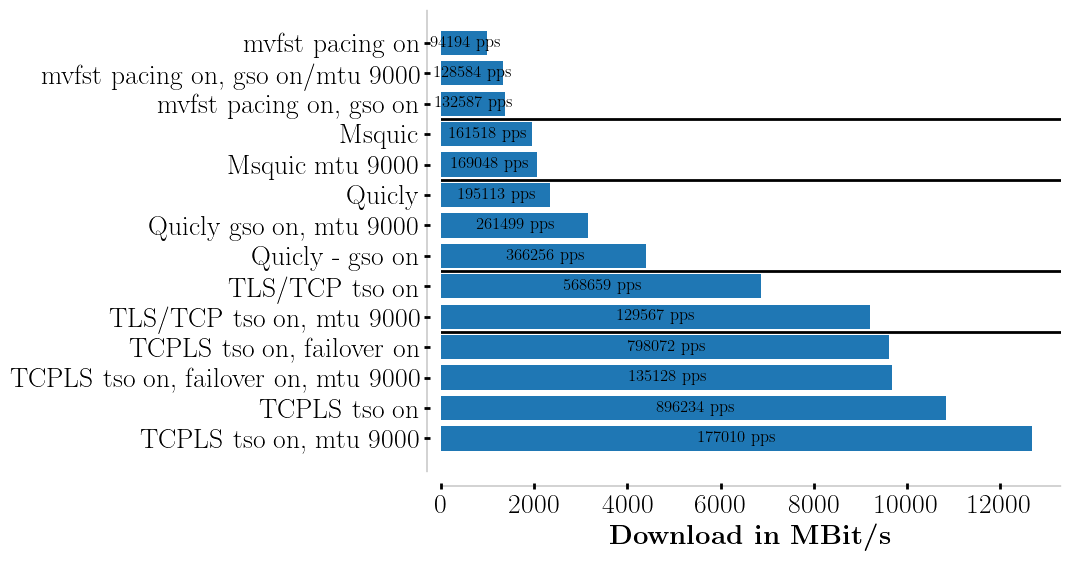
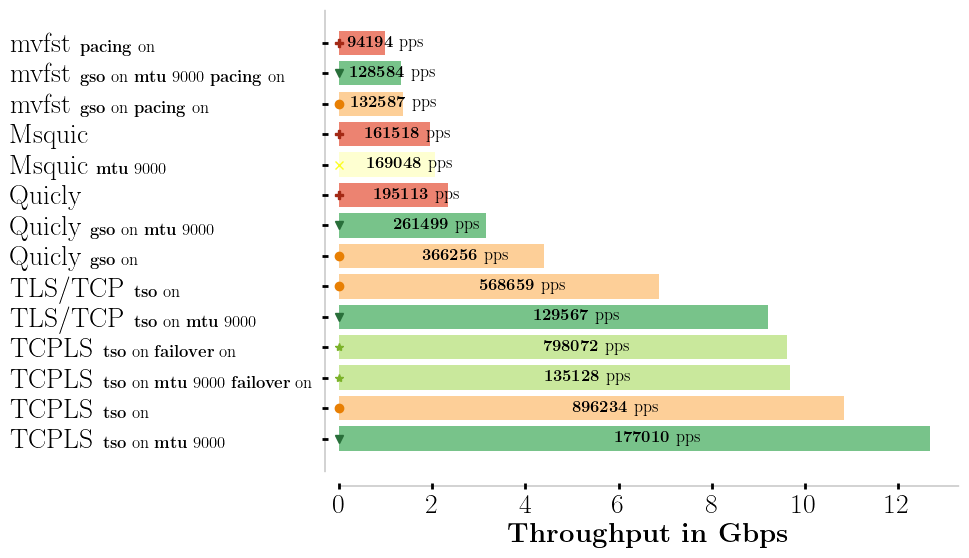
bandwidth aggregation

Changed region(s): [[0.0, 0.0305, 0.9907, 0.8226], [0.3406, 0.853, 0.9907, 0.9749]]

diff --git a/evaluation.tex b/evaluation.tex
@@ -205,12 +205,37 @@ pervasive monitoring allows for configurable TLS extensions blocking
 
 \subsection{Bandwidth Aggregation}
 
+We compare the capability of \tcpls to the state of the art \mptcp. Both
+protocols run in the same Mininet topology with two IP paths available, each
+offering 25 mbps and a latency of 10 ms. The experiment consists to transfering
+a file over a single path and then enabling the second one at $5$ seconds. For
+\mptcp, the new path is detected after we up the client's second interface. For
+\tcpls, managing paths is easier: the application can use the API to add local
+or peer-related addresses at any point of the connection. In that case, we add
+the information at $5$ seconds, connect to the peer and attach a new stream to
+this new connection. Our results are displayed in
+Figure~\ref{fig:multipath_aggregation}. Both stacks enable the aggregation of the
+goodput to ~50 mbps. There are two major differences displayed by the stacks.
+First, upping the interface, adding the routes and detecting the new path in
+the case of \mptcp is time consuming. It leads \mptcp to react slower than
+\tcpls regarding the availability of the new path. Second, \tcpls's aggregated
+goodput seems less stable than \mptcp. This discrepency is explained by the
+difference of chunk size manipulated by the reordering algorithm: \mptcp
+reorders packets with a payload of $1,460$ bytes, while \tcpls is this experiment
+reorders records with the maximum payload size of $16,384$ bytes. That means
+that \tcpls, upon unordered records, would need to reorder and deliver much
+larger chunks of data, leading to larger goodput irregularities than \mptcp.
+However, \tcpls might  negotiate the record size to smooth out this
+irregularity. Setting a record size around $1,500$ bytes would make them lookalike,
+but would be more CPU costly.
+
 \begin{figure}[!t]
   \begin{center}
     \includegraphics[width=\columnwidth]{figures/aggregate_dual.png}
-  \end{center} \
-  caption{Bandwidth aggregation comparison between \mptcp and
+  \end{center} 
+  \caption{Bandwidth aggregation comparison between \mptcp and
     \tcpls.}
+  \label{fig:multipath_aggregation}
 \end{figure}
 
 \subsection{Application-Level Migration}
@@ -285,10 +310,22 @@ for congestion controllers \cite{narayan2018restructuring}.
 During the last years, the Linux kernel developpers have relied on eBPF
 to make the Linux TCP/IP stack \cite{brakmo2017tcp,tran2020beyond} easier
 to extend. Since Linux kernel version 5.6, an application can inject
-a different congestion control scheme entirely implemented using eBPF. A similar approach was proposed in Pluginizing \quic~\cite{de2019pluginizing}.
-We leverage these new eBPF capabilities to demonstrate the feasibility of injecting and updating a congestion control scheme during a \tcpls session.
+a different congestion control scheme entirely implemented using eBPF. A similar
+approach was proposed in Pluginizing \quic~\cite{de2019pluginizing}.  We
+leverage these new eBPF capabilities to demonstrate the feasibility of injecting
+and updating a congestion control scheme during a \tcpls session.
 
-We perform our experiment using Mininet \todo{BD: same remark as above.  Mininet or IPMininet} over a 100 Mbps emulated link that has a 60 msec delay. Fig.~\ref{fig:vegasCubic} shows a client that uses the TCP Vegas~\cite{10.1145/190314.190317} congestion control scheme to upload a file. This \tcpls session fully uses the bottleneck link. After some time, another client starts an upload, but using the CUBIC congestion controller~\cite{rfc8312}. This results in an unfair distribution of the bandwidth. The server then sends the eBPF bytecode of the CUBIC congestion control scheme to the \tcp Vegas client that injects it in its kernel and the unfairness disappears.  We performed the same experiment for different delay, varying from 10ms to 100ms.
+We perform our experiment using Mininet \todo{BD: same remark as above.  Mininet
+  or IPMininet} over a 100 Mbps emulated link that has a 60 msec delay.
+Fig.~\ref{fig:vegasCubic} shows a client that uses the TCP
+Vegas~\cite{10.1145/190314.190317} congestion control scheme to upload a file.
+This \tcpls session fully uses the bottleneck link. After some time, another
+client starts an upload, but using the CUBIC congestion
+controller~\cite{rfc8312}. This results in an unfair distribution of the
+bandwidth. The server then sends the eBPF bytecode of the CUBIC congestion
+control scheme to the \tcp Vegas client that injects it in its kernel and the
+unfairness disappears.  We performed the same experiment for different delay,
+varying from 10ms to 100ms.
 
 \begin{figure}[!t]
   \begin{center}

diff --git a/pretty_plotify/plot_perf.py b/pretty_plotify/plot_perf.py
@@ -93,7 +93,7 @@ def main():
     yax.set_tick_params(pad=225)
 
     plt.xlabel(latex_label("Throughput in Gbps"), fontsize=20)
-    grid(True, color='gray', linestyle='dashed', which='major')
+    #grid(True, color='gray', linestyle='dashed', which='major')
 
     #axhline(y=3.5, lw=2, color='k')
     #axhline(y=5.5, lw=2, color='k')
